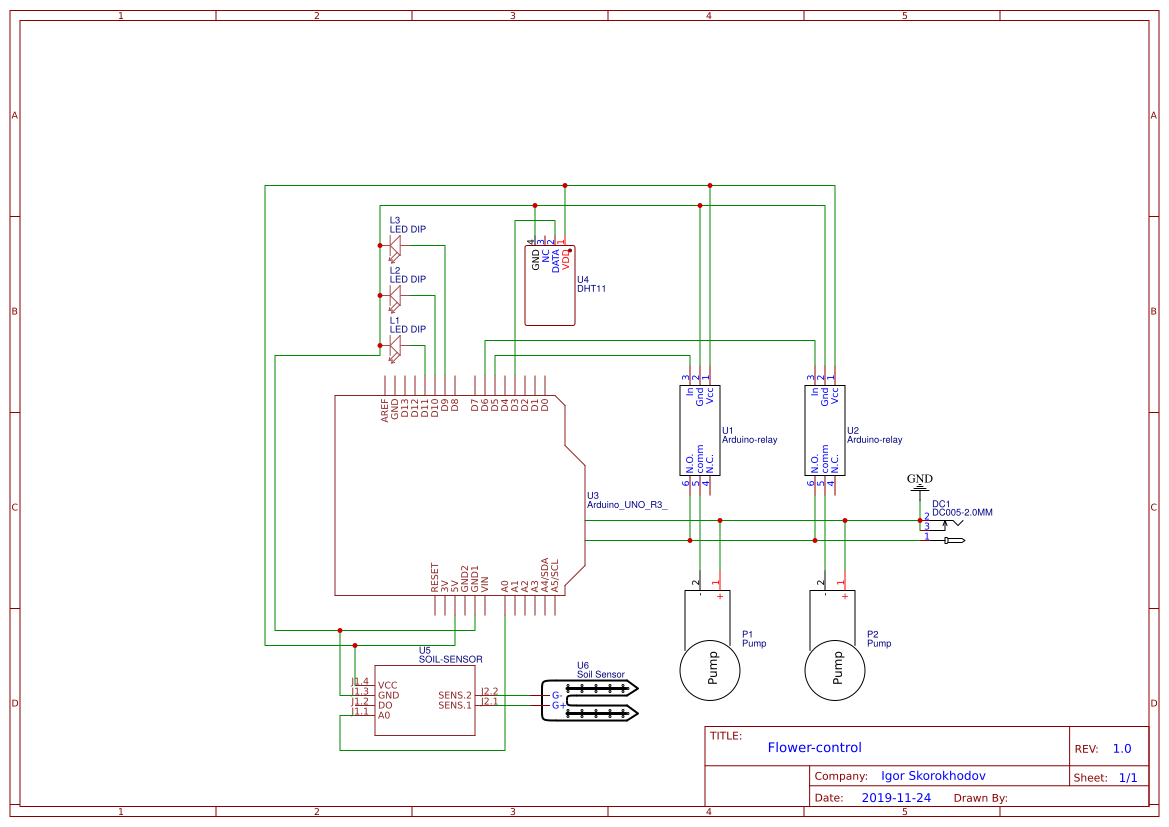
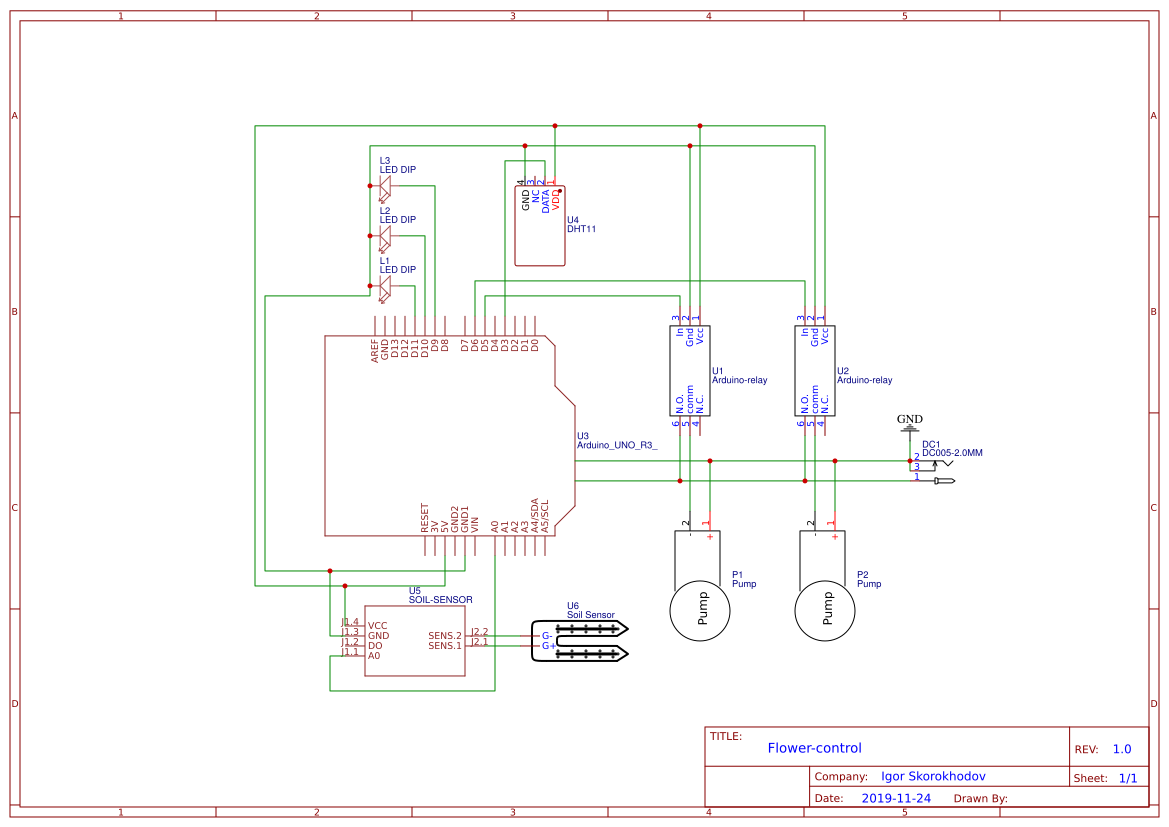
'img_update'

diff --git a/README.md b/README.md
@@ -30,3 +30,7 @@ This is simple project to plants condition monitoring.
 - `CONFIG_SPRAYING_TIME` - default `4`. Spray pump Run time
 - `CONFIG_CHECK_TIME` - default `30`. Sensor polling time
 
+## Scheme
+
+![Flower control scheme](https://raw.githubusercontent.com/Igga/Arduino-flower-control/master/img/scheme.png)
+
